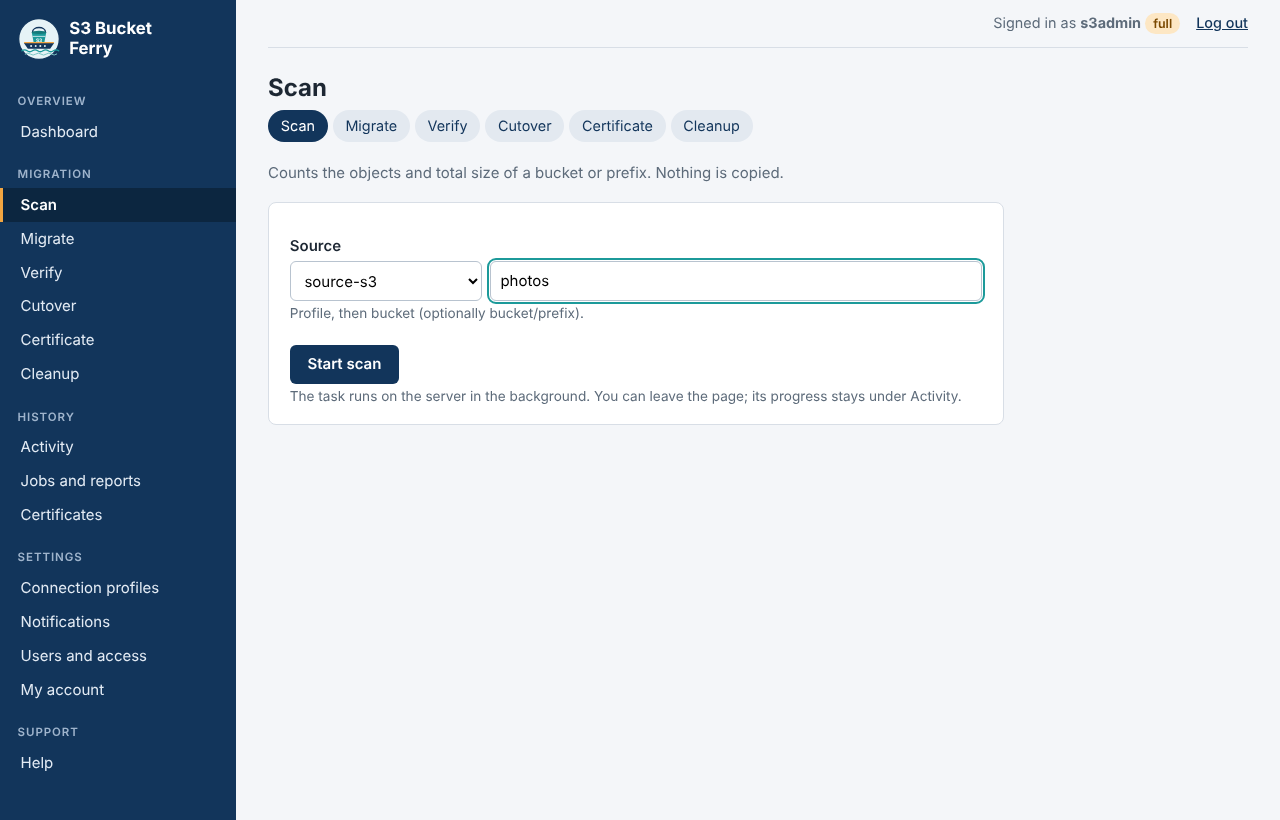
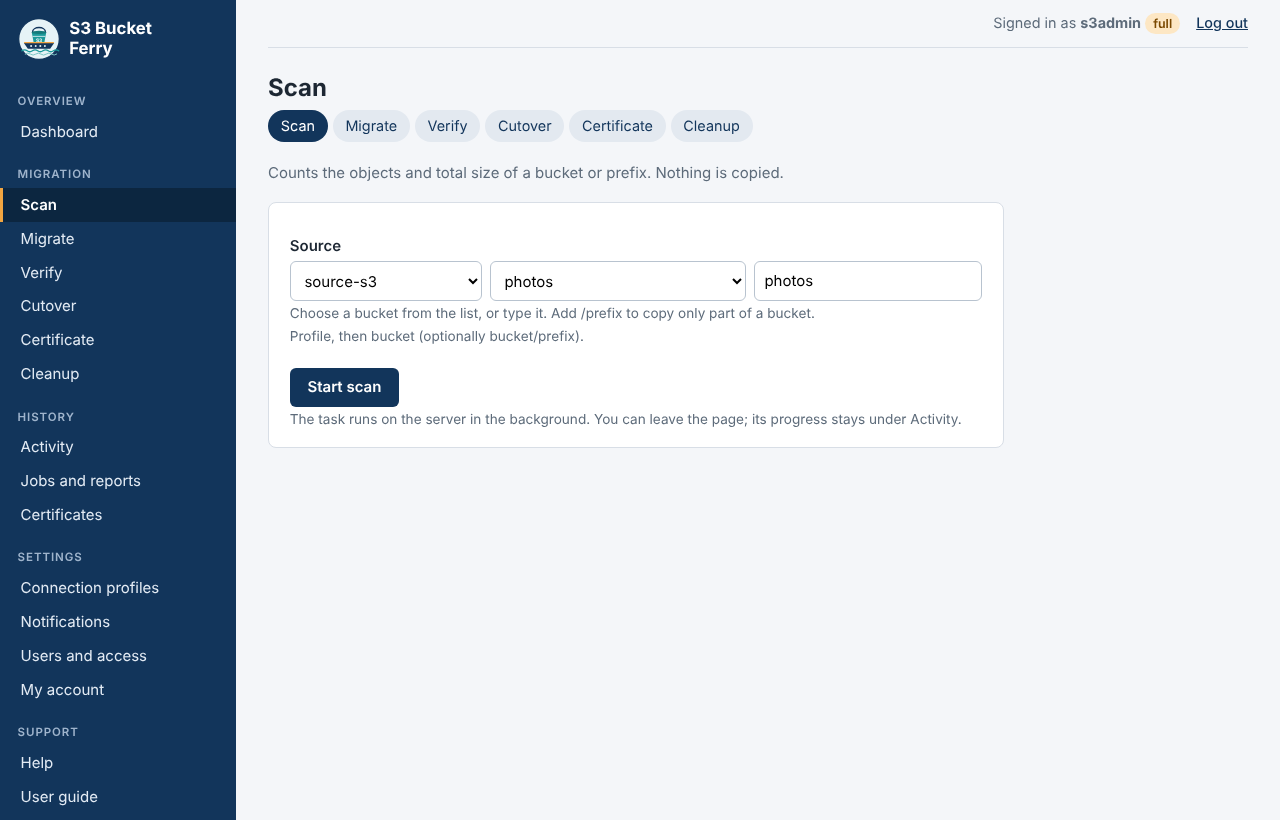
S3BucketFerry v0.4.1

Changed region(s): [[0.2188, 0.3354, 0.75, 0.5183], [0.5625, 0.3049, 0.5938, 0.3354], [0.0312, 0.9451, 0.0625, 0.9756]]

diff --git a/docs/USER_GUIDE.md b/docs/USER_GUIDE.md
@@ -1,6 +1,6 @@
 # S3BucketFerry User Guide
 
-Version 0.4.0
+Version 0.4.1
 
 S3BucketFerry ("S3 Bucket Ferry") copies buckets from one S3-compatible storage
 system to another, checks every object, and issues a migration certificate at
@@ -114,11 +114,11 @@ browser without internet access, and `USER_GUIDE.md`. Packages are on the
 
 | System | Package |
 |---|---|
-| Linux, Intel/AMD | `s3bucketferry-0.4.0-linux-amd64.tar.gz` |
-| Linux, ARM | `s3bucketferry-0.4.0-linux-arm64.tar.gz` |
-| Windows | `s3bucketferry-0.4.0-windows-amd64.zip` |
-| macOS, Intel | `s3bucketferry-0.4.0-macos-amd64.tar.gz` |
-| macOS, Apple silicon | `s3bucketferry-0.4.0-macos-arm64.tar.gz` |
+| Linux, Intel/AMD | `s3bucketferry-0.4.1-linux-amd64.tar.gz` |
+| Linux, ARM | `s3bucketferry-0.4.1-linux-arm64.tar.gz` |
+| Windows | `s3bucketferry-0.4.1-windows-amd64.zip` |
+| macOS, Intel | `s3bucketferry-0.4.1-macos-amd64.tar.gz` |
+| macOS, Apple silicon | `s3bucketferry-0.4.1-macos-arm64.tar.gz` |
 
 Every release also has `SHA256SUMS.txt`, which lets you confirm the download
 is complete and unaltered.
@@ -132,7 +132,7 @@ below and section 13.9. You never need Git.
 ### Linux
 
 ```bash
-VER=0.4.0
+VER=0.4.1
 BASE=https://github.com/debkhadanga2023-lgtm/S3BucketFerry/releases/download/v$VER
 cd /tmp
 curl -fLO $BASE/s3bucketferry-$VER-linux-amd64.tar.gz
@@ -154,7 +154,7 @@ which certificate to use.
 
 ### Windows
 
-1. Download `s3bucketferry-0.4.0-windows-amd64.zip`.
+1. Download `s3bucketferry-0.4.1-windows-amd64.zip`.
 2. Right-click the file, select **Extract All**, and extract to a folder such as
    `C:\S3BucketFerry`.
 3. Open **PowerShell** in that folder and run `.\s3bucketferry.exe version`.
@@ -176,8 +176,8 @@ installation.
 and download two files from the release you want:
 
 - the package for the S3BucketFerry machine, for example
-  `s3bucketferry-0.4.0-linux-amd64.tar.gz` or
-  `s3bucketferry-0.4.0-windows-amd64.zip`;
+  `s3bucketferry-0.4.1-linux-amd64.tar.gz` or
+  `s3bucketferry-0.4.1-windows-amd64.zip`;
 - `SHA256SUMS.txt`.
 
 Copy both to the S3BucketFerry machine, for example on a USB drive, over a file
@@ -188,9 +188,9 @@ the same folder.
 
 ```bash
 cd /tmp                                            # the folder you copied the two files to
-sha256sum -c --ignore-missing SHA256SUMS.txt       # must print: s3bucketferry-0.4.0-linux-amd64.tar.gz: OK
+sha256sum -c --ignore-missing SHA256SUMS.txt       # must print: s3bucketferry-0.4.1-linux-amd64.tar.gz: OK
 sudo mkdir -p /opt/s3bucketferry
-sudo tar -xzf s3bucketferry-0.4.0-linux-amd64.tar.gz -C /opt/s3bucketferry --strip-components=1
+sudo tar -xzf s3bucketferry-0.4.1-linux-amd64.tar.gz -C /opt/s3bucketferry --strip-components=1
 sudo ln -sf /opt/s3bucketferry/s3bucketferry /usr/local/bin/s3bucketferry
 s3bucketferry version
 s3bucketferry doctor
@@ -206,7 +206,7 @@ In PowerShell, in the folder you copied the two files to:
 
 ```powershell
 cd D:\                                                     # the folder with the two files
-(Get-FileHash .\s3bucketferry-0.4.0-windows-amd64.zip -Algorithm SHA256).Hash.ToLower()
+(Get-FileHash .\s3bucketferry-0.4.1-windows-amd64.zip -Algorithm SHA256).Hash.ToLower()
 Select-String -Path .\SHA256SUMS.txt -Pattern "windows-amd64.zip"
 ```
 
@@ -214,9 +214,9 @@ The two long values must be identical. (`certutil -hashfile <file> SHA256`
 shows the same value.) Then unpack the program into `C:\S3BucketFerry`:
 
 ```powershell
-Expand-Archive .\s3bucketferry-0.4.0-windows-amd64.zip -DestinationPath $env:TEMP\s3bf
+Expand-Archive .\s3bucketferry-0.4.1-windows-amd64.zip -DestinationPath $env:TEMP\s3bf
 New-Item -ItemType Directory -Force C:\S3BucketFerry | Out-Null
-Copy-Item $env:TEMP\s3bf\s3bucketferry-0.4.0-windows-amd64\* C:\S3BucketFerry -Recurse -Force
+Copy-Item $env:TEMP\s3bf\s3bucketferry-0.4.1-windows-amd64\* C:\S3BucketFerry -Recurse -Force
 cd C:\S3BucketFerry
 .\s3bucketferry.exe version
 .\s3bucketferry.exe doctor
@@ -264,8 +264,11 @@ This guide uses four names. You can choose your own:
 | `TARGET_ACCESS_KEY` | the target access key |
 | `TARGET_SECRET_KEY` | the target secret key |
 
-Don't start a variable name with `RCLONE_`. rclone reads every `RCLONE_...`
-variable as one of its own settings.
+Don't start the name of a key variable with `RCLONE_`. rclone reads every
+`RCLONE_...` variable as one of its own settings. (The keys file can still
+hold an rclone setting on purpose, such as `RCLONE_CONFIG_PASS` for an
+encrypted rclone settings file: see section 5, "Use an existing rclone
+remote".)
 
 ### Linux and macOS
 
@@ -347,7 +350,7 @@ enough: use it as both source and target.
 | HTTPS certificate: import a file, or paste it | `--ca-cert-import FILE` | Only for HTTPS endpoints whose certificate comes from the customer's own certificate authority (CA): the CA certificate in PEM format. A copy is kept with the profile. See "HTTPS certificates of the storage systems" below. |
 | HTTPS certificate: a file already on the server | `--ca-cert FILE` | The same, but the profile refers to the file where it is instead of keeping a copy. |
 | Do not verify the certificate | `--insecure-tls` | Bypass, for tests only: turns off the certificate check for this profile's endpoint. |
-| rclone remote | `--rclone-remote` | Advanced: use a remote that already exists in your rclone configuration instead of the fields above. |
+| rclone remote | `--rclone-remote` | Advanced: use a remote that already exists in rclone's own settings file instead of the fields above. See "Use an existing rclone remote (advanced)" below. |
 
 The most common mistake is typing the key itself into a key variable field.
 S3BucketFerry now refuses such a value with "a key variable field holds what
@@ -374,7 +377,8 @@ variable names.
 8. Or paste the certificate text (`-----BEGIN CERTIFICATE-----` ...).
 9. Or refer to a certificate file that is already on the server.
 10. Do not verify the certificate: the bypass, for tests only.
-11. An existing rclone remote, as an alternative to fields 2 to 10.
+11. An existing rclone remote, as an alternative to fields 2 to 10 (see "Use
+    an existing rclone remote (advanced)" below).
 12. **Save profile**.
 
 Both profiles then appear at the top of the page:
@@ -501,6 +505,86 @@ Since 0.4.0, these settings apply to each profile's own endpoint. Before, a
 certificate given for one profile replaced the trusted CAs for both ends of a
 migration, and the bypass on one profile turned off checks for both.
 
+### Use an existing rclone remote (advanced)
+
+rclone keeps its own settings file, normally `~/.config/rclone/rclone.conf`,
+in which each named entry is a **remote**: an endpoint, a provider type, keys
+and any other rclone options. Instead of filling in the endpoint and key
+fields, a profile can simply name such a remote. S3BucketFerry then passes
+the name to rclone, and rclone reads everything else from its settings file.
+Scans, migrations, verification, cutover and certificates work as usual.
+
+Use it when:
+
+- a working rclone remote for that storage already exists;
+- you need an rclone option the profile form doesn't offer, such as
+  `force_path_style`, `v2_auth`, server-side encryption or `upload_cutoff`
+  (see [rclone's S3 page](https://rclone.org/s3/));
+- the storage isn't S3: any rclone backend works, for example a local folder.
+
+For ordinary S3 storage, the normal profile fields are simpler and keep the
+keys out of files you have to protect yourself.
+
+**1. Create the remote as the user that runs S3BucketFerry.** rclone looks in
+the settings file of the user running it: for the web interface, that is the
+service user (`ferry` in this guide), not you or root. With the rclone
+bundled in the package, either follow the questions:
+
+```bash
+sudo -u ferry /opt/s3bucketferry/rclone config
+```
+
+or create it in one command:
+
+```bash
+sudo -u ferry /opt/s3bucketferry/rclone config create cleversafe s3 \
+  provider IBMCOS endpoint https://s3.source.example.com \
+  access_key_id <access key> secret_access_key <secret key> \
+  ca_cert /etc/pki/tls/certs/storage-ca.pem
+```
+
+`ca_cert` is only needed for a certificate from the customer's own CA; give
+the full path of a PEM file the service user can read.
+
+**2. Point a profile at it.** In the profile form, open **Use an rclone remote
+instead**, type the remote name (`cleversafe`), and leave the endpoint and
+key variable fields empty. On the command line:
+
+```bash
+s3bucketferry profile add --name source-s3 --rclone-remote cleversafe
+```
+
+**3. Test it** with **Test**, or `s3bucketferry profile test --name source-s3`.
+The profiles list shows the profile as `(rclone)`, with **as set in the rclone
+remote** in the **TLS** column.
+
+**Keep the keys safe.** In a remote, the keys are stored in `rclone.conf`, in
+plain text unless you encrypt the file. This is rclone's file, not
+S3BucketFerry's, so protect it yourself:
+
+```bash
+sudo -u ferry chmod 600 /home/ferry/.config/rclone/rclone.conf
+sudo -u ferry /opt/s3bucketferry/rclone config encryption set   # asks for a password
+```
+
+After encrypting it, rclone needs the password every time it runs. Put it in
+the keys file (section 4), which the web interface reads for every task:
+
+```text
+RCLONE_CONFIG_PASS=<the password you chose>
+```
+
+On the command line, load the keys file in your session as usual. To use a
+settings file in another place, add `RCLONE_CONFIG=<full path>` to the keys
+file the same way.
+
+**What doesn't apply to an rclone remote profile:** the key variable fields,
+the keys-file reload for the remote's own keys (they live in `rclone.conf`;
+an edit there is used from the next task), and certificate import (set
+`ca_cert` in the remote instead). "Do not verify the certificate" still works
+for the profile, but setting `no_check_certificate = true` in the remote
+does the same.
+
 ### Add the profiles on the command line
 
 ```bash
@@ -548,18 +632,27 @@ List and test the profiles:
 ```text
 $ s3bucketferry profile list
 NAME       PROVIDER  ENDPOINT / REMOTE             KEY VARIABLES                         TLS
-source-s3  Other     http://source-s3.example.com  SOURCE_ACCESS_KEY, SOURCE_SECRET_KEY  system CAs
-target-s3  Other     http://target-s3.example.com  TARGET_ACCESS_KEY, TARGET_SECRET_KEY  system CAs
+source-s3  Other     http://source-s3.example.com  SOURCE_ACCESS_KEY, SOURCE_SECRET_KEY  none (plain HTTP)
+target-s3  Other     http://target-s3.example.com  TARGET_ACCESS_KEY, TARGET_SECRET_KEY  none (plain HTTP)
 
 $ s3bucketferry profile test --name source-s3
+TLS: none (plain HTTP)
 OK: connected to "source-s3", 2 bucket(s) visible
 
 $ s3bucketferry profile test --name target-s3 --bucket photos
+TLS: none (plain HTTP)
 OK: bucket "photos" is reachable with profile "target-s3" (4 top-level prefix(es))
+
+$ s3bucketferry profile buckets --name source-s3
+archive
+photos
 ```
 
 `--bucket` tests access to one bucket instead of listing them all, which is
-useful when the key may only see its own bucket. `profile remove --name NAME`
+useful when the key may only see its own bucket. `profile buckets` lists the
+buckets the profile's key can see, one per line (`--json` for scripts); the
+web interface uses it for the bucket lists in its forms. A key that may not
+list buckets shows none, though it can still reach a bucket you name. `profile remove --name NAME`
 deletes a profile.
 
 ### Locations
@@ -1007,14 +1100,27 @@ a build from source), the page links to the guide on GitHub instead.
 
 ### 8.1 Scan the source
 
-**Migration > Scan**. Choose the source profile, type the bucket, and select
-**Start scan**.
+**Migration > Scan**. Choose the source profile. The page then lists the
+buckets that profile can see: choose one, or type the bucket name in the box
+next to it (add `/prefix` to scan only part of a bucket). Select **Start
+scan**.
 
-![The Scan page](images/06-scan-form.png)
+![The Scan page, with the bucket list of the chosen profile](images/06-scan-form.png)
 
-The scan counts the objects and adds up their size. Nothing is copied.
+The bucket list appears in every task form (Scan, Migrate, Verify, Cutover,
+Certificate, Cleanup), for the source and the target. If it can't be shown,
+the page says why under the profile, for example `AccessDenied` when the key
+may not list buckets (common for keys limited to one bucket), or a
+certificate or region problem with a hint. You can always type the bucket
+name instead.
 
-![Scan result: 643 objects, 297 MiB](images/07-scan-result.png)
+The scan counts the objects and adds up their size. Nothing is copied. When
+it has finished, its task page (and its job page) has **Migrate this
+bucket**. It opens **Migrate** with the scanned profile and bucket
+already filled in as the source; choose the target and continue with the
+dry run below.
+
+![A finished scan: object count and size, and Migrate this bucket](images/40-scan-migrate-button.png)
 
 ### 8.2 Dry run
 
@@ -1022,8 +1128,10 @@ The scan counts the objects and adds up their size. Nothing is copied.
 
 ![The Migrate form, with numbered fields](images/08-migrate-form.png)
 
-1. Source: profile and bucket (optionally `bucket/prefix`).
-2. Target: profile and bucket. The target bucket can have a different name.
+1. Source: profile, then the bucket from the list or typed (optionally
+   `bucket/prefix`).
+2. Target: profile and bucket, the same way. The target bucket can have a
+   different name; to have it created, type a new name.
 3. **Dry run**: ticked by default. Nothing is changed while it is ticked.
 4. **Preserve object metadata**: keeps each object's content type and custom
    metadata. Recommended.
@@ -1763,7 +1871,7 @@ upgrade.
 
 ```bash
 s3bucketferry version                                           # what you have now
-sudo s3bucketferry upgrade --package /tmp/s3bucketferry-0.4.0-linux-amd64.tar.gz
+sudo s3bucketferry upgrade --package /tmp/s3bucketferry-0.4.1-linux-amd64.tar.gz
 ```
 
 It works exactly like the online upgrade (13.3): it checks the package against
@@ -1802,9 +1910,9 @@ the copy is complete and unaltered.
 
 ```bash
 cd /tmp
-tar -xzf s3bucketferry-0.4.0-linux-amd64.tar.gz
-sudo bash s3bucketferry-0.4.0-linux-amd64/upgrade.sh --dir /opt/s3bucketferry \
-     --package /tmp/s3bucketferry-0.4.0-linux-amd64.tar.gz
+tar -xzf s3bucketferry-0.4.1-linux-amd64.tar.gz
+sudo bash s3bucketferry-0.4.1-linux-amd64/upgrade.sh --dir /opt/s3bucketferry \
+     --package /tmp/s3bucketferry-0.4.1-linux-amd64.tar.gz
 ```
 
 From then on use `sudo s3bucketferry upgrade --package ...`.
@@ -1821,7 +1929,7 @@ instead of downloaded. In PowerShell:
 
 ```powershell
 cd D:\                                                     # the folder with the copied files
-(Get-FileHash .\s3bucketferry-0.4.0-windows-amd64.zip -Algorithm SHA256).Hash.ToLower()
+(Get-FileHash .\s3bucketferry-0.4.1-windows-amd64.zip -Algorithm SHA256).Hash.ToLower()
 Select-String -Path .\SHA256SUMS.txt -Pattern "windows-amd64.zip"   # must show the same value
 ```
 
@@ -1830,8 +1938,8 @@ Stop the web interface (Ctrl+C in its window), then:
 ```powershell
 Remove-Item C:\S3BucketFerry.previous -Recurse -Force -ErrorAction SilentlyContinue
 Copy-Item C:\S3BucketFerry C:\S3BucketFerry.previous -Recurse           # your rollback copy
-Expand-Archive .\s3bucketferry-0.4.0-windows-amd64.zip -DestinationPath $env:TEMP\s3bf -Force
-Copy-Item $env:TEMP\s3bf\s3bucketferry-0.4.0-windows-amd64\* C:\S3BucketFerry -Recurse -Force
+Expand-Archive .\s3bucketferry-0.4.1-windows-amd64.zip -DestinationPath $env:TEMP\s3bf -Force
+Copy-Item $env:TEMP\s3bf\s3bucketferry-0.4.1-windows-amd64\* C:\S3BucketFerry -Recurse -Force
 C:\S3BucketFerry\s3bucketferry.exe version
 ```
 
@@ -1943,6 +2051,10 @@ versioning, lifecycle rules, bucket policies and Object Lock defaults.
 | `InvalidAccessKeyId` or `SignatureDoesNotMatch` | Wrong key, or a space or quote pasted with it | Check the values in your keys file. The next task uses the new values; check its first line says the variable "changed". |
 | Error mentioning the region, or `AuthorizationHeaderMalformed` | The storage expects a specific region | Set the profile's region to the one your administrators gave you. |
 | `AccessDenied` | The key lacks a permission | See the permissions in section 2. For bucket creation, create the target bucket first and tick **Target bucket already exists**. |
+| `Could not list the buckets: AccessDenied` under a profile in a task form | The key may not list buckets (normal for a key limited to one bucket) | Type the bucket name; the task can still use the bucket. |
+| `Could not list the buckets` with another message | The profile can't connect: the message and its hint name the cause (keys, certificate, region) | Fix the profile, then choose it again; or select **Test** on the profiles page. |
+| `didn't find section in config file ("<name>")` | The profile names an rclone remote that doesn't exist in the settings file of the user running the task | Check the name (`sudo -u ferry /opt/s3bucketferry/rclone listremotes`). For the web interface, create the remote as the service user (section 5, "Use an existing rclone remote"). |
+| `Enter configuration password` ... `Failed to read line: EOF` | rclone's settings file is encrypted and no password was given | Add `RCLONE_CONFIG_PASS=<password>` to the keys file (section 4). |
 | `x509: certificate signed by unknown authority` | The storage's HTTPS certificate comes from the customer's own CA | Import the CA certificate into the profile: **Edit** > **HTTPS certificate of this storage**, or `--ca-cert-import FILE` (section 5, "HTTPS certificates of the storage systems"). The bypass is for tests only. |
 | `x509: certificate has expired or is not yet valid` | The storage's certificate expired, or this machine's clock is wrong | Ask the storage administrators to renew it; check the clock (`timedatectl`). |
 | `x509: certificate is valid for <name>, not <other>` | The endpoint URL uses a name or IP address the certificate doesn't cover | Use the host name the certificate was issued for in the endpoint URL. |

diff --git a/CHANGELOG.md b/CHANGELOG.md
@@ -1,5 +1,31 @@
 # Changelog
 
+## 0.4.1 - 2026-11-24
+
+- **Bucket lists in the task forms.** Choosing a profile in Scan, Migrate,
+  Verify, Cutover, Certificate or Cleanup lists the buckets that profile can
+  see, for the source and the target; choosing one fills the bucket box, which
+  can still be typed in (for `bucket/prefix`, or a bucket the key may not
+  list). The list is read with the current keys file. When it can't be shown,
+  the reason appears under the profile in one line with a hint (key not
+  allowed to list buckets, wrong keys, untrusted certificate, wrong region
+  with the expected one). Without JavaScript the forms work as before.
+- **`profile buckets --name NAME [--json]`**: lists a profile's buckets on the
+  command line.
+- **Scan, then migrate.** A finished scan's task page and job page have
+  **Migrate this bucket**, which opens Migrate with the scanned profile and
+  bucket as the source. Task forms also accept `?src=profile:bucket` and
+  `?dst=` in their address.
+- `profile list` shows "none (plain HTTP)" for `http://` endpoints, like the
+  web interface.
+- Tests: the bucket list endpoint, error summaries (including the region
+  hint), form prefill and the Migrate buttons; the integration test lists the
+  buckets of an HTTPS profile and checks the certificate hint. A UI test no
+  longer races with tasks still running at cleanup.
+- User guide: section 8.1 (bucket list, Migrate this bucket, with new
+  screenshots), 8.2 steps, `profile buckets` and corrected sample output in
+  section 5, two troubleshooting rows. Help page updated to match.
+
 ## 0.4.0 - 2026-11-23
 
 **Upgrading:** from 0.3.10, `sudo s3bucketferry upgrade` is enough. From 0.3.9
@@ -33,9 +59,15 @@ guide, section 13, "Upgrading to 0.4.0".
   adds a limitation line.
 - `profile test` prints how the certificate is checked, and explains common
   TLS errors (unknown authority, expired, wrong name, HTTP endpoint).
+- Profiles that use an existing rclone remote now show "as set in the rclone
+  remote" in the TLS column (web and `profile list`), instead of "system CAs".
 - The web interface accepts file uploads (forms are limited to 4 MB).
 - The profile form's key reminder no longer says to restart the web interface
   (not needed since 0.3.10).
+- User guide: new "Use an existing rclone remote (advanced)" in section 5
+  (what it is, creating the remote as the service user, protecting and
+  encrypting rclone.conf with `RCLONE_CONFIG_PASS` in the keys file, what
+  doesn't apply) and two troubleshooting rows; Help page to match.
 - User guide: new "HTTPS certificates of the storage systems" in section 5,
   updated form screenshots and steps, command-line examples, "Upgrading to
   0.4.0", `certs/` in section 14, six troubleshooting rows, glossary. Help page

diff --git a/README.md b/README.md
@@ -35,7 +35,7 @@ offline). Nothing else needs installing.
 ## Install on Linux
 
 ```bash
-VER=<version>        # for example 0.4.0
+VER=<version>        # for example 0.4.1
 BASE=https://github.com/debkhadanga2023-lgtm/S3BucketFerry/releases/download/v$VER
 cd /tmp
 curl -fLO $BASE/s3bucketferry-$VER-linux-amd64.tar.gz
